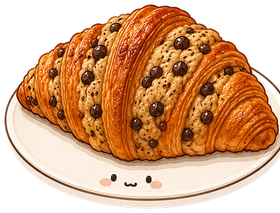
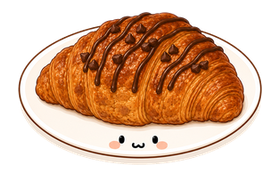
크루키(fe_17) 아이콘 교체 — 초코 확 줄인 새 이미지 + 크기 균형 (v8.38)
창업자 제보: 기존 크루키는 초코 토핑이 너무 많아 징그러움 → 초코 드리즐·
칩을 확 줄인 새 이미지로 교체. cluster-union 컷으로 크림 접시+귀여운
얼굴 보존, 배경 투명.

"크로와상이 엄청커" 대응: 크루키가 캔버스를 꽉 채워(fill 0.98) 큰 덩어리라
시각 무게가 다른 음식보다 커 보임 → 여백을 줘 롱사이드 fill 0.87로 축소,
비율(1.573) 유지해 다른 음식 아이콘과 크기 균형을 맞춤. 정사각 썸네일·
꾸미기 스티커 양쪽에서 균등 축소.

- PHOTO_RATIO fe_17: 1.3146 → 1.573 (새 이미지 비율).
- 아이콘 키(fe_17) 그대로라 크루키 레시피에 자동 반영(재베이크 불필요).
- version.js v8.37 → v8.38, CLAUDE.md 현재버전 갱신.

diff --git a/hankki/src/components/Stickers.jsx b/hankki/src/components/Stickers.jsx
@@ -149,7 +149,7 @@ const PHOTO_RATIO = {
   fe_01: 0.9641, fe_02: 0.9643, fe_03: 0.9563, fe_04: 1.0079, fe_05: 1.0316, fe_06: 0.9057, fe_07: 0.9094, fe_08: 1.0612,
   fe_09: 1.0458, fe_10: 1.0833, fe_11: 1.0333, fe_12: 1.042, fe_13: 1.1209, fe_14: 1.038, fe_15: 0.6739,
   // 🍱 예시 보충 2차(2026-07-24·6종, 창업자 생성). 카레·크루키·불닭냉면·요거트아이스크림·김치볶음밥·참치김치감태주먹밥.
-  fe_16: 1.1336, fe_17: 1.3146, fe_18: 1.0853, fe_19: 0.9571, fe_20: 1.1475, fe_21: 1.3462,
+  fe_16: 1.1336, fe_17: 1.573, fe_18: 1.0853, fe_19: 0.9571, fe_20: 1.1475, fe_21: 1.3462,
   // 🍱 예시 보충 3차(2026-07-24·2종, 창업자 생성). 대구뭉티기·육회(생고기).
   fe_22: 1.1475, fe_23: 1.157,
   // 🍱 예시 보충 4차(2026-07-24·4종, 창업자 생성). 새우크림파스타·양배추돼지고기볶음·치즈샌드위치·로제파스타.

diff --git a/hankki/src/version.js b/hankki/src/version.js
@@ -1,7 +1,7 @@
 // 앱 버전 — 배포마다 숫자를 올린다. 설정 화면 맨 아래에 표시되고,
 // 새 버전으로 업데이트되면(서비스워커 교체 → 새로고침) 안내 토스트를 띄우는 기준이 된다.
 // 사용자가 "지금 몇 버전이야?"를 바로 확인해 알려줄 수 있어, 캐시 문제 진단에도 쓴다.
-export const APP_VERSION = 'v8.37'
+export const APP_VERSION = 'v8.38'
 export const APP_TAGLINE = '꼬르곰·펭펭과 레꾸해요'
 
 // 익명 의견 보내기 채널 — 로그인 없이 익명으로 받는 구글 폼(또는 Tally) 링크.

diff --git a/hankki/CLAUDE.md b/hankki/CLAUDE.md
@@ -8,7 +8,7 @@
 - **⭐⭐⭐ [최우선 작업원칙] 무조건 리서치 먼저 → 작업·제안은 그 다음.** (창업자 2026-07-22 반복 명시) 뭘 제안·요청하기 전에 **그 일을 먼저 다 조사**하고 **일의 순서를 정한** 뒤 **꼭 필요한 최소 작업만** 시킨다. **"제안부터 하고 나중에 리서치" 절대 금지.** 소모적·반복적·시행착오 작업은 창업자 말고 **클로드가**(규칙8). → `docs/창업자-니즈-일하는방식.md`·`docs/삽질-리스트-2026-07-17.md`(C5)·`/안녕`.
 - **출시 일정**: 비공개 테스트 **2026-07-17 시작 → 7-31 완료** → 프로덕션(정식) 신청 가능.
   - 테스터 **12명 이상 유지**(안내 기한 8/10, 버퍼 10일). 12 밑으로 내려가면 14일 시계 리셋.
-- **현재 버전**: **v8.37** (배포마다 `src/version.js`에서 올림) — v8.37=**온보딩 새단장(스토어 스샷 라이브 재현 + 캐러셀 스와이프)**(옛 "흩어진 레시피를 한곳에" 폐기 → 스토어 스크린샷의 레꾸/감정 톤 디자인을 앱 안에서 라이브 React로. 1080×1920 스샷 픽셀을 `Onboarding.jsx`의 `Stage`로 통째 스케일→스샷과 동일 미감·앱 로컬폰트. 6장=①히어로(김밥·꼬르곰 살랑)②레꾸(연어포케볼·펭펭 콩콩+반짝/하트효과)③공유(감바스·곰펭 갸웃+반응 말풍선)④큐레이션(냉면곰펭·꼬르곰·펭펭 PICK, `ob_naeng.png`)⑤감정(하트곰 둥실+하트 솟기)⑥브랜드(인사 꼬르곰·펭펭 `gp_duohi`+로고, 전부 가운데정렬). 곰펭=앱 실제모션, 문구=꼬르곰·펭펭/레꾸(옛 '흩어진'·'곰펭이' 제거). **전환=캐러셀 페이징**(슬라이드 가로로 나란히 붙어 트랙 통째 밀림→옛 크로스페이드의 '두 장면 충돌' 제거, 손가락 드래그 실시간 추적+놓으면 스냅·가장자리 고무줄, 다음버튼/스와이프 병행). 앱 안 재방문=**설정→'앱 소개 다시 보기'**(`nav.showOnboarding`, 데이터 안 건드림). ⚠남은 것: ⑧스토어 스샷(옛 '흩어진' 문구·콘솔 업로드분)은 새 디자인으로 1080×1920 재렌더 필요) / v8.36=**놓친 아이콘 반영 + 파스타 2종**(대구뭉티기 레시피 아이콘 fi_j09→`fe_22` 놓친 것 수정 / 묵은지파스타 `fe_52`·베이컨크림파스타 `fe_53` 얼굴 있는 새 버전 추가 → 베이컨크림·묵은지들기름파스타 레시피의 옛 faceless `fy_y03` 대체 / 강제반영 3종 추가 · `BASICS_VERSION` 41) / v8.35=🐛**꾸민 표지 날아가는 버그 수정**(store.jsx `migrateBasics` v13이 시드 재동기화 때 `thumb`을 'none'→'icon'으로 되돌리고 `decorBg`를 안 챙겨서, `BASICS_VERSION` 올릴 때마다 배경지우기+꾸민 표지가 사라지고 시드 아이콘이 다시 나타남. → `decorBg` 보존 + 꾸민 표지(thumb:'none'·데코·배경 있음)는 thumb 보존. 내용(재료·메모)은 계속 시드 최신화. 창업자 제보-공심채볶음) / v8.34=**쇼핑 큐레이션 아이콘화**(주부의 장바구니 22개 카테고리+상품별 이모지 🫗🍡 → 제품 일러 PNG `src/assets/curation/cu_*` 27종·창업자 생성·수채톤. `curation.js`에 `icon` 필드+`curIcon()` 글로브, `ShopScreen` 칩·헤더·카드 타일 3곳 렌더-없으면 이모지 폴백. 스톡·간식·햄은 상품별 개별 아이콘. 카레 🍛도 해결) / v8.33=**예시 아이콘 24종 대량 추가**(`fe_28`~`fe_51`, 빈칸 리스트 완성: 육개장·감자탕·순댓국·알탕·오징어덮밥/볶음·장조림·두부조림·오이무침·잔치국수·콩국수·붕어빵·호떡·와플·리조또·알리오올리오·브런치·가라아게·규동·꿔바로우·케이크·티라미수·팥빙수·도넛. 자동매칭 규칙+픽커 5개 칩 노출. `BASICS_VERSION` 40으로 내 레시피도 v34 자동승급) / v8.32=**예시 아이콘 추가**(대구뭉티기 `fe_22`·육회 `fe_23`·새우크림파스타 `fe_24`·양배추돼지고기볶음 `fe_25`·치즈샌드위치 `fe_26`·로제파스타 `fe_27`. 로제파스타·치즈샌드위치·새우크림파스타 레시피 전용 아이콘 강제반영 `BASICS_VERSION` 39 · '파스타=스파게티' 규칙 묶음 · 픽커 한식/양식칩 노출) / v8.31=**예시 아이콘 반영 보강**(불닭냉면 등 편집분 강제 반영 위해 store.jsx `migrateBasics` v38 패스 추가 + `BASICS_VERSION` 38 / 새 아이콘 `fe_16`~`fe_21`을 **픽커**(한식·분식칩)에 노출 / **대구뭉티기 `fe_22`·육회 `fe_23`** 추가·저장) / v8.30=**예시 보충 아이콘 6종 추가**(카레·크루키·불닭냉면·요거트아이스크림·김치볶음밥·참치김치감태주먹밥 → `fe_16`~`fe_21`, 창업자 생성·blob 컷. 기존 레시피 4종 전용 아이콘 반영 + `BASICS_VERSION` 37) / v8.27=**엄마표 김밥 예시 레시피 추가**(BASICS_VERSION 36 · 스토어 스샷 ①히어로) / v8.28~29=**브랜드 문구 개편**(옛 "흩어진 레시피/아카이브/정리" → 새 레꾸·감정 톤). **확정 문구(창업자 2026-07-24)**: 매니페스트 이름 **"한끼 — 나만의 레시피, 레꾸해요"** / 앱 태그라인 **"꼬르곰·펭펭과 레꾸해요"**(version.js) / 설명 "레시피를 예쁜 카드로 레꾸! 꼬르곰·펭펭과 꾸미고, 친구랑 나누는 감정 레시피북"(vite.config.js). **원칙: 이름=실용(획득)·캐릭터는 태그라인/설명(유지). "나만의 레시피" 중복 피함. 톤=~요(레꾸해요).** ⚠ 매니페스트 이름=**새 AAB/PWA재설치 때 반영**. **스토어 앱이름·설명은 창업자가 콘솔에서 별도 수정**(옛 "한끼 - 흩어진 레시피를 한곳에"))
+- **현재 버전**: **v8.38** (배포마다 `src/version.js`에서 올림) — v8.38=**크루키(fe_17) 아이콘 교체**(창업자 제보: 기존 크루키 초코토핑 너무 많아 징그러움 → 초코 드리즐/칩 확 줄인 새 이미지로. cluster-union 컷·크림접시+얼굴 보존. "크로와상이 엄청커" → 음식이 캔버스 꽉 채워 시각무게 컸던 것 → 여백 줘 롱사이드 fill 0.87로 축소, 다른 음식과 크기 균형. `PHOTO_RATIO` fe_17 1.315→1.573) / v8.37=**온보딩 새단장(스토어 스샷 라이브 재현 + 캐러셀 스와이프)**(옛 "흩어진 레시피를 한곳에" 폐기 → 스토어 스크린샷의 레꾸/감정 톤 디자인을 앱 안에서 라이브 React로. 1080×1920 스샷 픽셀을 `Onboarding.jsx`의 `Stage`로 통째 스케일→스샷과 동일 미감·앱 로컬폰트. 6장=①히어로(김밥·꼬르곰 살랑)②레꾸(연어포케볼·펭펭 콩콩+반짝/하트효과)③공유(감바스·곰펭 갸웃+반응 말풍선)④큐레이션(냉면곰펭·꼬르곰·펭펭 PICK, `ob_naeng.png`)⑤감정(하트곰 둥실+하트 솟기)⑥브랜드(인사 꼬르곰·펭펭 `gp_duohi`+로고, 전부 가운데정렬). 곰펭=앱 실제모션, 문구=꼬르곰·펭펭/레꾸(옛 '흩어진'·'곰펭이' 제거). **전환=캐러셀 페이징**(슬라이드 가로로 나란히 붙어 트랙 통째 밀림→옛 크로스페이드의 '두 장면 충돌' 제거, 손가락 드래그 실시간 추적+놓으면 스냅·가장자리 고무줄, 다음버튼/스와이프 병행). 앱 안 재방문=**설정→'앱 소개 다시 보기'**(`nav.showOnboarding`, 데이터 안 건드림). ⚠남은 것: ⑧스토어 스샷(옛 '흩어진' 문구·콘솔 업로드분)은 새 디자인으로 1080×1920 재렌더 필요) / v8.36=**놓친 아이콘 반영 + 파스타 2종**(대구뭉티기 레시피 아이콘 fi_j09→`fe_22` 놓친 것 수정 / 묵은지파스타 `fe_52`·베이컨크림파스타 `fe_53` 얼굴 있는 새 버전 추가 → 베이컨크림·묵은지들기름파스타 레시피의 옛 faceless `fy_y03` 대체 / 강제반영 3종 추가 · `BASICS_VERSION` 41) / v8.35=🐛**꾸민 표지 날아가는 버그 수정**(store.jsx `migrateBasics` v13이 시드 재동기화 때 `thumb`을 'none'→'icon'으로 되돌리고 `decorBg`를 안 챙겨서, `BASICS_VERSION` 올릴 때마다 배경지우기+꾸민 표지가 사라지고 시드 아이콘이 다시 나타남. → `decorBg` 보존 + 꾸민 표지(thumb:'none'·데코·배경 있음)는 thumb 보존. 내용(재료·메모)은 계속 시드 최신화. 창업자 제보-공심채볶음) / v8.34=**쇼핑 큐레이션 아이콘화**(주부의 장바구니 22개 카테고리+상품별 이모지 🫗🍡 → 제품 일러 PNG `src/assets/curation/cu_*` 27종·창업자 생성·수채톤. `curation.js`에 `icon` 필드+`curIcon()` 글로브, `ShopScreen` 칩·헤더·카드 타일 3곳 렌더-없으면 이모지 폴백. 스톡·간식·햄은 상품별 개별 아이콘. 카레 🍛도 해결) / v8.33=**예시 아이콘 24종 대량 추가**(`fe_28`~`fe_51`, 빈칸 리스트 완성: 육개장·감자탕·순댓국·알탕·오징어덮밥/볶음·장조림·두부조림·오이무침·잔치국수·콩국수·붕어빵·호떡·와플·리조또·알리오올리오·브런치·가라아게·규동·꿔바로우·케이크·티라미수·팥빙수·도넛. 자동매칭 규칙+픽커 5개 칩 노출. `BASICS_VERSION` 40으로 내 레시피도 v34 자동승급) / v8.32=**예시 아이콘 추가**(대구뭉티기 `fe_22`·육회 `fe_23`·새우크림파스타 `fe_24`·양배추돼지고기볶음 `fe_25`·치즈샌드위치 `fe_26`·로제파스타 `fe_27`. 로제파스타·치즈샌드위치·새우크림파스타 레시피 전용 아이콘 강제반영 `BASICS_VERSION` 39 · '파스타=스파게티' 규칙 묶음 · 픽커 한식/양식칩 노출) / v8.31=**예시 아이콘 반영 보강**(불닭냉면 등 편집분 강제 반영 위해 store.jsx `migrateBasics` v38 패스 추가 + `BASICS_VERSION` 38 / 새 아이콘 `fe_16`~`fe_21`을 **픽커**(한식·분식칩)에 노출 / **대구뭉티기 `fe_22`·육회 `fe_23`** 추가·저장) / v8.30=**예시 보충 아이콘 6종 추가**(카레·크루키·불닭냉면·요거트아이스크림·김치볶음밥·참치김치감태주먹밥 → `fe_16`~`fe_21`, 창업자 생성·blob 컷. 기존 레시피 4종 전용 아이콘 반영 + `BASICS_VERSION` 37) / v8.27=**엄마표 김밥 예시 레시피 추가**(BASICS_VERSION 36 · 스토어 스샷 ①히어로) / v8.28~29=**브랜드 문구 개편**(옛 "흩어진 레시피/아카이브/정리" → 새 레꾸·감정 톤). **확정 문구(창업자 2026-07-24)**: 매니페스트 이름 **"한끼 — 나만의 레시피, 레꾸해요"** / 앱 태그라인 **"꼬르곰·펭펭과 레꾸해요"**(version.js) / 설명 "레시피를 예쁜 카드로 레꾸! 꼬르곰·펭펭과 꾸미고, 친구랑 나누는 감정 레시피북"(vite.config.js). **원칙: 이름=실용(획득)·캐릭터는 태그라인/설명(유지). "나만의 레시피" 중복 피함. 톤=~요(레꾸해요).** ⚠ 매니페스트 이름=**새 AAB/PWA재설치 때 반영**. **스토어 앱이름·설명은 창업자가 콘솔에서 별도 수정**(옛 "한끼 - 흩어진 레시피를 한곳에"))
 - **🍱 음식 아이콘 자동 썸네일(v8.22~v8.24)**: 레시피 제목 쓰면 완성요리 아이콘 자동 부착(사진 대체·친구 피드백 반영). 88종(한식37+양식14+중식14+일식14+분식·간식9). **추가법** = `src/assets/stickers/photo/{key}.png` 넣고 `Stickers.jsx`의 `PHOTO_RATIO`에 `{key}: 비율` + `FoodIcon.jsx`의 `ICON_RULES`(제목 자동매칭·구체어 먼저)·`FOOD_ICON_GROUPS`(픽커) 등록. key접두어 fh_한식·fy_양식·fj_중식·fi_일식·fb_분식. **디저트·빵·음료는 레시피 아이콘 제외**(요리 아님→나중 스티커, `docs/stickers/음식아이콘-2507/디저트빵-나중스티커/`).
   - ⚠ **아이콘은 생성 시 레시피에 저장돼 굳음**(`recipe.icon` = `guessFoodIcon(제목)` 결과). 그래서 규칙만 바꾸면 **기존 레시피엔 자동 반영 안 됨**. 반영 방법: ①기본 레시피는 `basics.js` 아이콘 갱신 + `BASICS_VERSION`↑(store.jsx v13이 안 건드린 시드 재동기화) ②내 레시피는 store.jsx `migrateBasics`에 업그레이드 패스 추가(v34식: 시드 아님 + 아이콘표지 + PNG 없던 것 → 제목 PNG로). Thumb은 `recipe.icon || guessFoodIcon(제목)`.
 - **⚙ 배포 메커니즘(2026-07-20 확정)**: `.github/workflows/deploy-hankki.yml` = **GitHub Actions.** 개발=배포 브랜치 `claude/chatgpt-conversation-link-kvn5ph`에 `hankki/**` 변경 푸시하면 **자동 빌드→Pages 배포**(github.io/hankki). 즉 **이 브랜치 푸시 = 즉시 배포**(도메인 레포·gh-pages 아님). ⚠ 그래서 "/픽스 아니면 푸시 금지"(규칙9)가 실질 의미 = **앱코드는 창업자 확인 전 이 브랜치에 푸시하지 말 것**(푸시=배포라). 배포 확인 = Actions 실행 초록불(run #번호).
